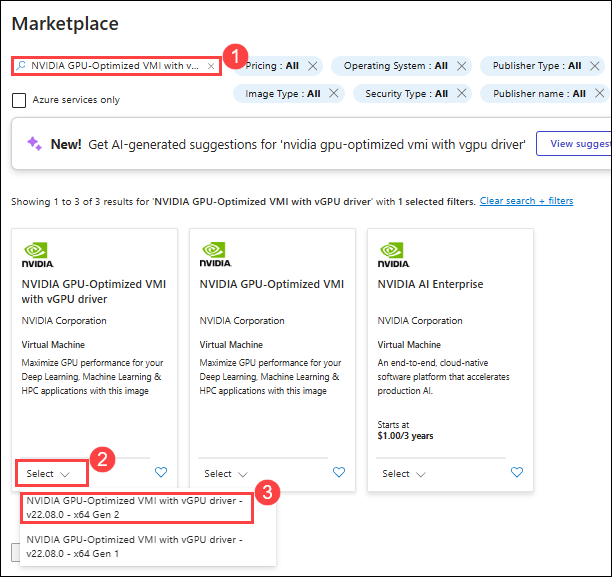
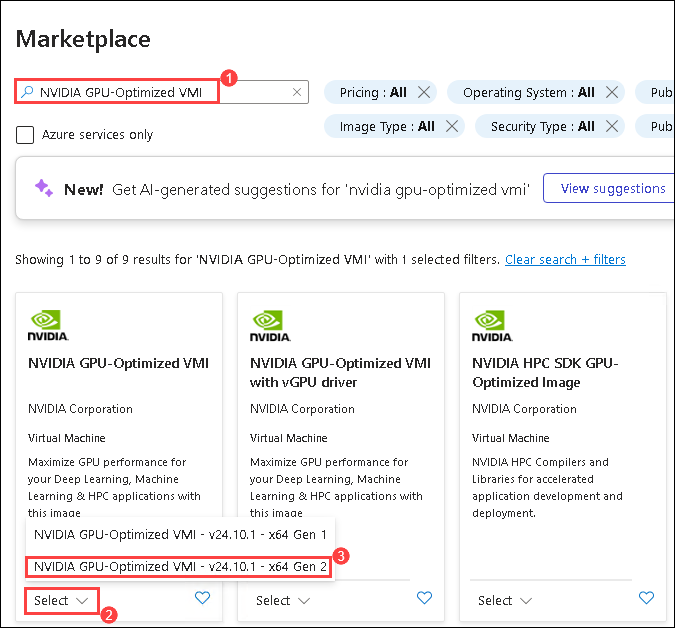
updated

diff --git a/Solution-Guide/Challenge-7.md b/Solution-Guide/Challenge-7.md
@@ -155,7 +155,7 @@ Looking at your document, Task 2 needs a proper title to match the formatting of
     - **Security type**: from the drop-down select **Standard**
     - **Image**: click on **see all images**
 
-        - In the **MarketPlace**, search **NVIDIA GPU-Optimized VMI with vGPU driver** **(1)** and in the **NVIDIA GPU-Optimized VMI with vGPU driver** click on **Select** **(2)** drop-dowm and select **NVIDIA GPU-Optimized VMI with vGPU driver - v22.08.0 - x64 Gen 2** **(3)** .
+        - In the **MarketPlace**, search **NVIDIA GPU-Optimized VMI** **(1)** and in the **NVIDIA GPU-Optimized VMI** click on **Select** **(2)** drop-dowm and select **NVIDIA GPU-Optimized VMI - v24.10.1 - x64 Gen 2** **(3)** .
 
             ![](../media/vmimageselect.png)
 
@@ -212,11 +212,14 @@ Looking at your document, Task 2 needs a proper title to match the formatting of
    sudo gpasswd -a $USER docker
    exit
    ```
-   
 
-1. Relogin into the VM by paste the recoded **SSH endpoint** **(1)**, hit the **Enter** button and enter the **password** **(2)**.
+   ![](../media/exit.png)   
 
-2. Configure your NGC API Key:
+2. Relogin into the VM by paste the recoded **SSH endpoint** **(1)**, hit the **Enter** button and enter the **password** **(2)**.
+
+   ![](../media/reconnect.png)
+
+3. Run the fallowing command to configure your NGC API Key:
 
    ```bash
    # Set your NGC API Key (replace with your actual key)
@@ -228,8 +231,11 @@ Looking at your document, Task 2 needs a proper title to match the formatting of
    # Log in to NGC container registry
    echo "$NGC_API_KEY" | docker login nvcr.io --username '$oauthtoken' --password-stdin
    ```
+   ![](../media/login-nvidia.png)
 
-3. Run the NVIDIA Riva ASR Container:
+   > **Note**: Replace your-ngc-api-key with your generated NGC_API_KEY in task 1.
+
+4. Run the fallowing command to download, deploy and run NVIDIA Riva model into docker desktop:
    
    ```bash
    # Set model selector
@@ -248,12 +254,76 @@ Looking at your document, Task 2 needs a proper title to match the formatting of
       nvcr.io/nim/nvidia/riva-asr:1.3.0
    ```
 
+   ![](../media/download-deploy-run.png)
+
    > **Note**: It may take up to 30 minutes for the Docker container to be ready and start accepting requests, depending on network speed.
 
-4. 
+6. Once the NVIDIA Riva model is succedded start the new CMD session connect to the VM throught SSH.
+
+   ![](../media/succedded-nvidiamodel.png)
+
+7. Run the following command to check if the service is ready to handle inference requests.
+
+     ```
+     curl -X 'GET' 'http://localhost:9000/v1/health/ready'
+     ```
+
+   - If the service is ready, you get a response similar to the following.
+
+     ```
+     {"status":"ready"}
+     ```
+
+     ![](../media/status-update.png)
+
+### Task 4: Configure Network Security Group Rules for External Access
+
+1. Naviagte back to Azure portal, in search bar **Network security groups** **(1)**, and select **Network security groups** **(2)**.
+
+   ![](../media/select-nsg.png)
+
+1. In the **Network security groups**, copy the the name on **Resource group name**  **(1)** and **NCG name** **(2)** of nvidia-gpu.
+
+   ![](../media/nsg-name.png)
+
+1. Configure Azure NSG rules
+
+   ```
+   az network nsg rule create --resource-group youRGName --nsg-name myNSG --name allow-http --protocol tcp --priority 100  --destination-port-range 9000
+   ```
+
+   ```
+   az network nsg rule create --resource-group youRGName --nsg-name myNSG --name allow-grpc --protocol tcp --priority 110 --destination-port-range 50051
+   ```
+
+   ![](../media/nsg-9000.png)
+
+   ![](../media/nsg-50051.png)
+
+   > **Note**: replace youRGName with Resource group name and myNSG with Network security groups name of nvidia-gpu 
+
+1. In the Azure portal, in search bar **Virtual machines** **(1)**, and select **Virtual machines** **(2)**.
+
+   ![](../media/search-vm.png)
+
+1. In the **Virtual machines**, copy the public ip of **nvidia-gpu** Virtual machines.
+
+   ![](../media/search-vmip.png)
+
+1. Add a new tab i the browser naviagte to below URL to check if the service is ready to handle inference requests.
+
+   ```
+   http://<nvidia-gpu-public-ip>:9000/v1/health/ready
+   ```
+
+   ![](../media/web-trigger.png)
+
+
+### Task 5:
 
 ## Additional Resources:
 
 - [Getting Started — NVIDIA NIM Riva ASR](https://docs.nvidia.com/nim/riva/asr/latest/getting-started.html)
-- [Python Client Repository](https://github.com/nvidia-riva/python-clients)
-- [C++ Client Repository](https://github.com/nvidia-riva/cpp-clients)
+- [az network nsg rule](https://learn.microsoft.com/en-us/cli/azure/network/nsg/rule?view=azure-cli-latest#az-network-nsg-rule-create)
+- [Python Client Repository](https://github.com/nvidia-riva/python-clients.git)
+- [C++ Client Repository](https://github.com/nvidia-riva/cpp-clients.git)
